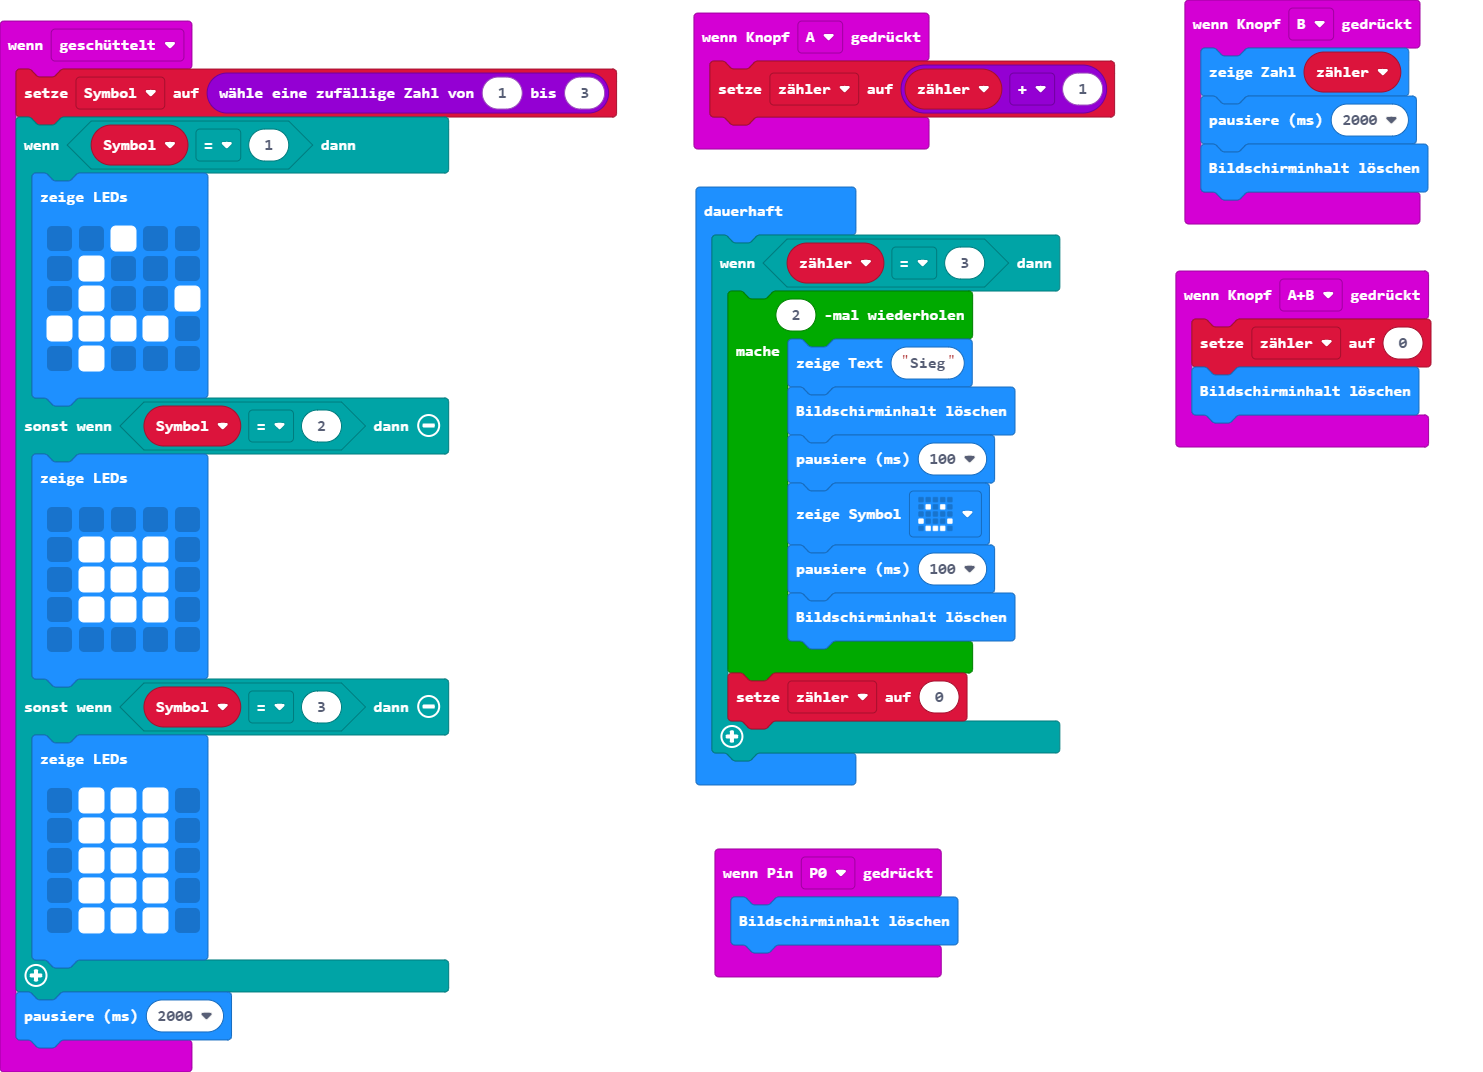
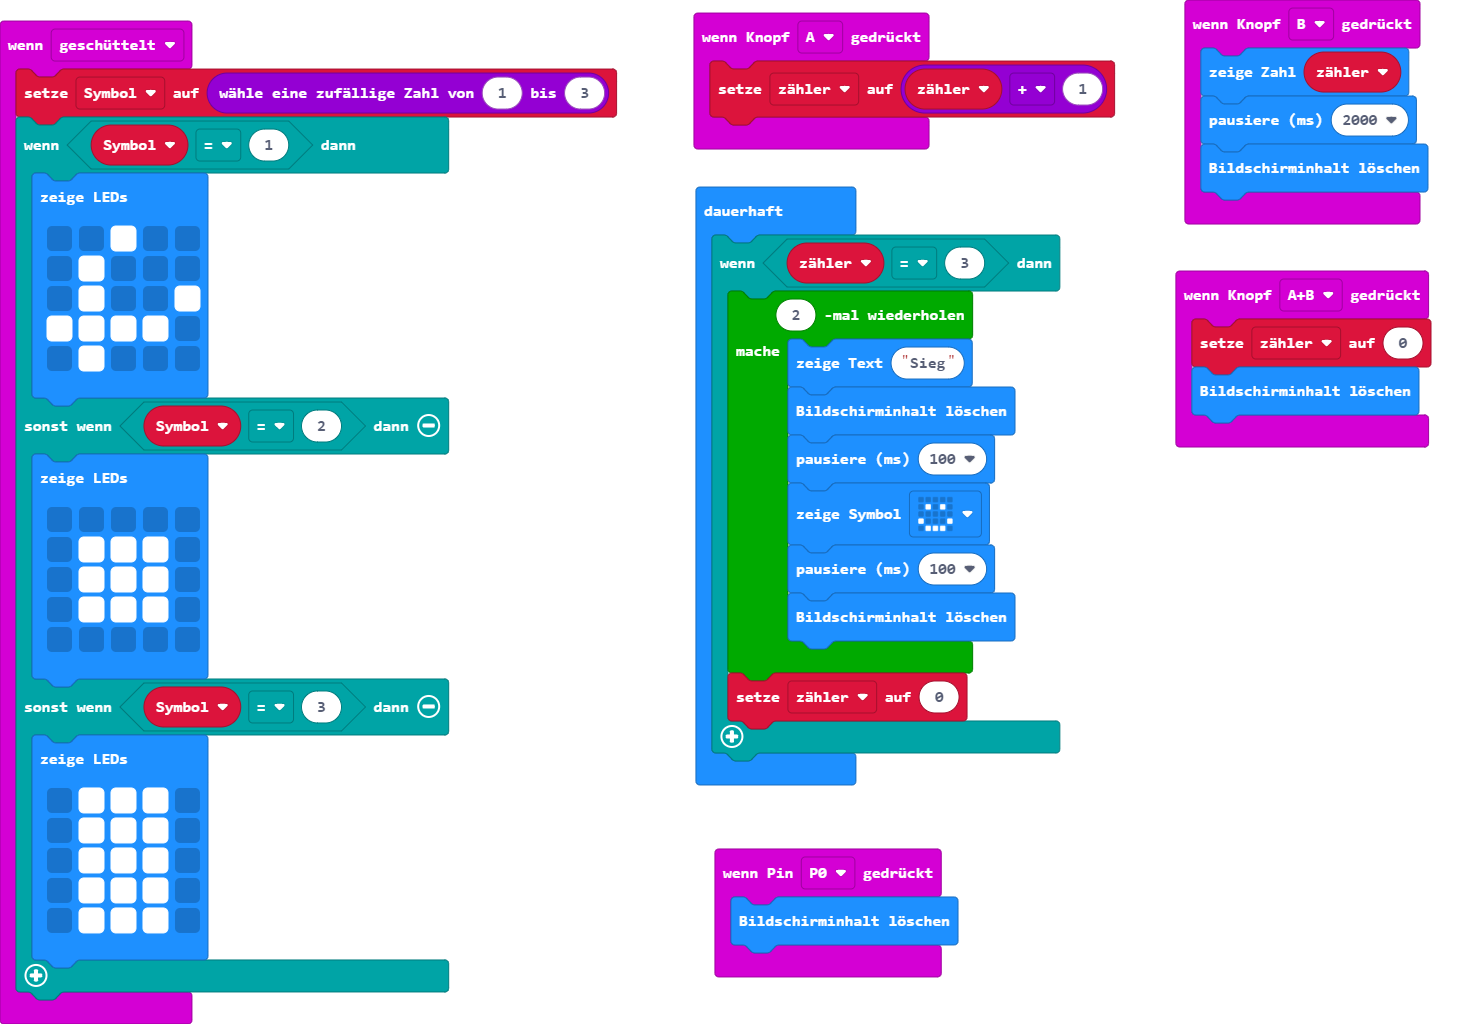
Aktualisiere main.blocks, main.ts

diff --git a/main.ts b/main.ts
@@ -33,7 +33,6 @@ input.onGesture(Gesture.Shake, function () {
             . # # # .
             `)
     }
-    basic.pause(2000)
 })
 input.onButtonPressed(Button.AB, function () {
     zähler = 0
